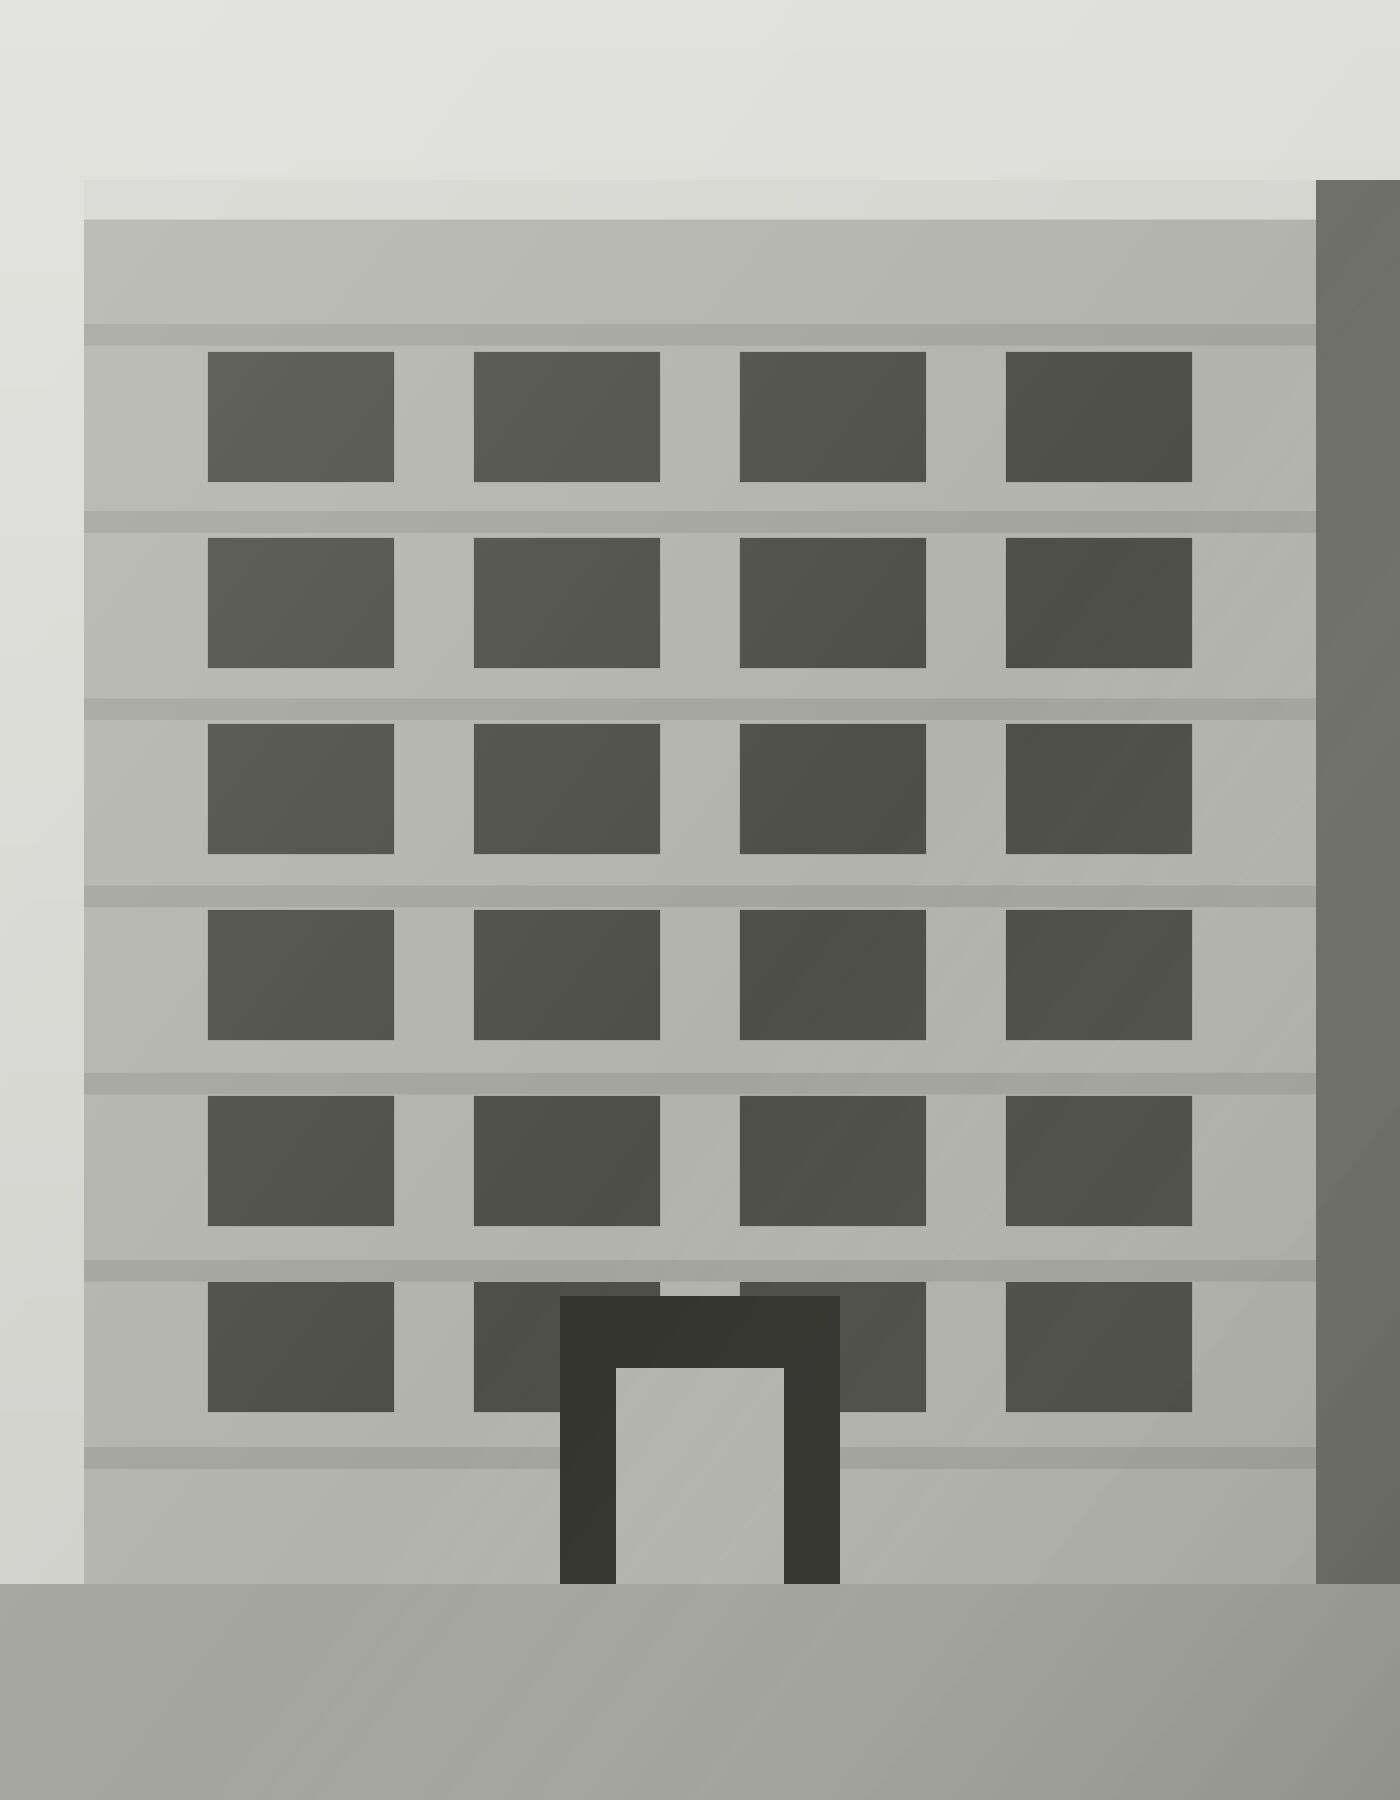
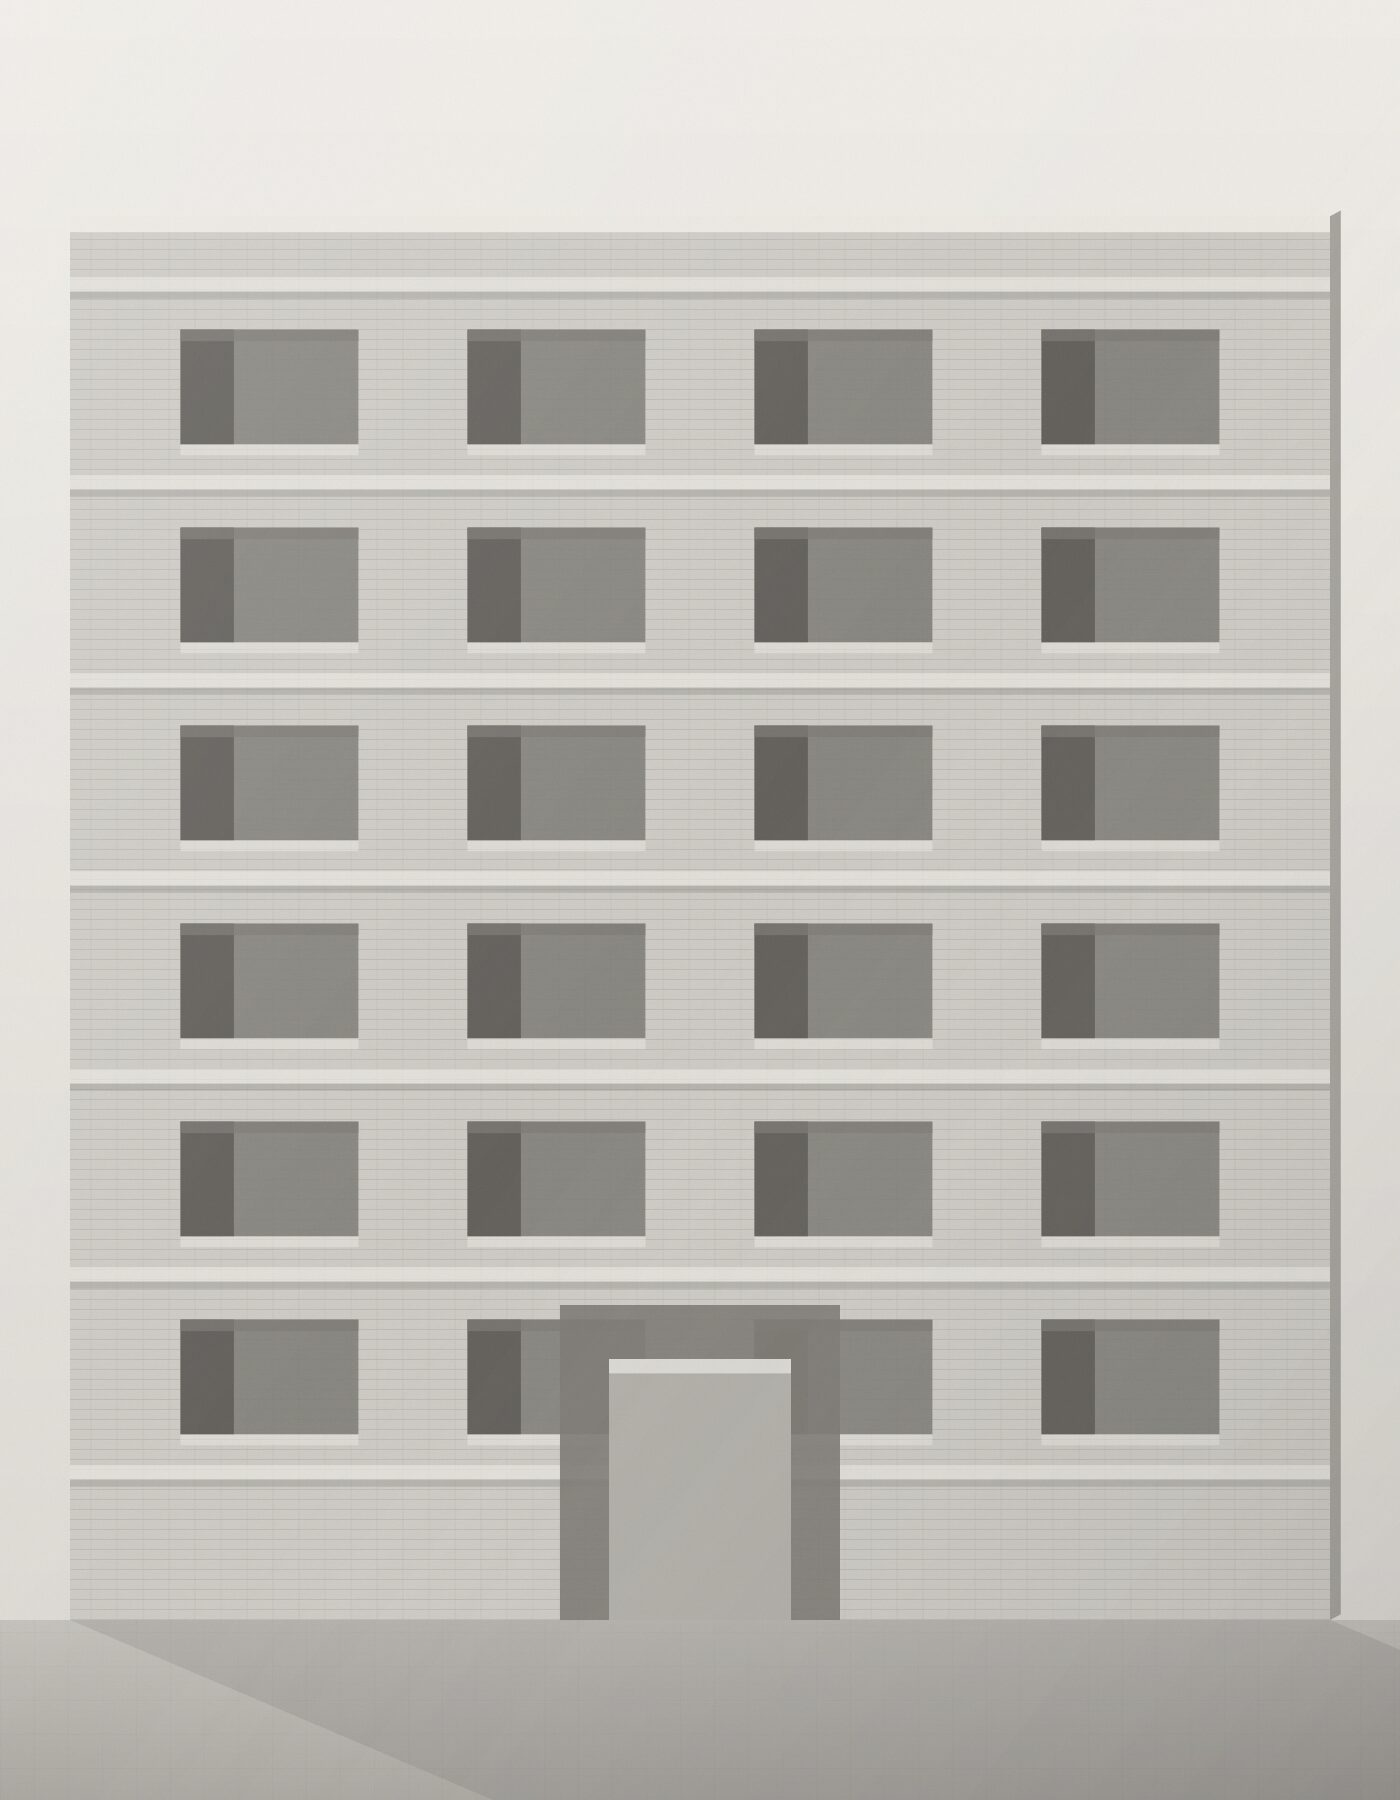
Redraw the placeholder set with light, depth and material
The first pass was flat mid-grey elevations: no cast shadows, no tonal range,
and the subject sat small in a large sky, which the masonry crop turned into
near-empty tiles.

Rebuilt on a shared system - one sun direction, one cabinet projection, one
palette, texture on the front faces, cast shadows on the ground - and composed
so each subject fills its frame. The masterplan is now a ring of volumes around
an empty centre, which is the yard, rather than three overlapping rows.

The images are staying in the submission, so the docs no longer instruct anyone
to replace them: keeping them is a stated choice, and DEFENSE.md §6 says why.

diff --git a/START-HERE.md b/START-HERE.md
@@ -91,13 +91,20 @@ was not wrong here.
 
 ---
 
-## 3. Put your real photographs in
+## 3. The photographs (optional)
 
-The site ships with nine generated placeholders, not photographs. Replace them
-before you deploy, otherwise you will have to deploy twice.
+The site ships with nine generated placeholders — tonal architectural studies,
+one per slot, drawn in the site's own palette. They are **not** photographs of
+built work, and they are deliberately graphic so nobody mistakes them for it.
 
-Open `client/public/projects/` in Finder. Overwrite these files with your own
-photographs, **keeping the exact same file names**:
+Keeping them is a legitimate choice, and it is what this build does by default.
+If you keep them, say so when you present the project rather than letting it be
+noticed: `DEFENSE.md` §6 has the wording, and the short version is that inventing
+photo-real imagery and labelling it as specific real projects would misrepresent
+someone else's buildings.
+
+If you would rather use real photographs, open `client/public/projects/` in
+Finder and overwrite these files, **keeping the exact same file names**:
 
 | File name | Size | Shape | What it is |
 |---|---|---|---|
@@ -112,14 +119,13 @@ photographs, **keeping the exact same file names**:
 | `auth-facade.jpg` | 1400×1800 | tall | panel beside the sign-in form |
 
 **Worked if** you refresh http://localhost:5173 with Cmd+Shift+R and see your
-photos instead of the grey graphics.
+photographs in the grid instead of the drawn ones.
 
 Tiles are cropped to fit, so the shape matters more than the pixel count. A photo
 much smaller than 1000px wide will look soft on a large screen.
 
-If you do not have the photos yet, skip this for now — the placeholders are
-deliberately obvious, so nobody will mistake them for your work. Just do not
-forget before you submit.
+You can do this at any point, before or after deploying — but if you do it after,
+commit and push so Vercel rebuilds with the new images.
 
 ---
 
@@ -292,7 +298,8 @@ character, or you forgot to redeploy the API after setting it.
 
 ## 10. Before you submit
 
-- [ ] Real photographs in place, no grey placeholders left
+- [ ] Photographs: either real ones in place, or you can say out loud that the
+      nine drawn studies are placeholders and why (`DEFENSE.md` §6)
 - [ ] Both URLs open in a private window (so you are not signed in already)
 - [ ] Sign up, refresh, sign out, and try `/dashboard` signed out — on the live site
 - [ ] `npm run smoke` all green

diff --git a/DEFENSE.md b/DEFENSE.md
@@ -220,9 +220,11 @@ Say these before you are asked. Naming your own gaps reads as competence.
   against one account would get through. Account-level lockout is the next step.
 - **The tests cover the API, not the UI.** There is no browser test suite.
 - **Photographs are generated placeholders.** The nine files in
-  `client/public/projects/` are tonal massing studies, not photographs. Replace
-  each with a real image of the same file name before submission; the README
-  lists the names and dimensions.
+  `client/public/projects/` are tonal architectural studies drawn for the site,
+  not photographs of built work. That was a deliberate call: inventing realistic
+  imagery and labelling it as specific projects would misrepresent other people's
+  buildings. Say it in those terms. To swap in real photographs, overwrite the
+  files with the same names (sizes and names are listed in the README).
 - **No CI pipeline.** Tests are run locally with `npm test`.
 - **Accessibility is designed for, not audited.** Keyboard focus, labels, alt text
   and reduced motion are all handled, but there has been no screen-reader pass.
@@ -236,9 +238,13 @@ Run it in this order. It shows the whole system working.
 
 1. **Start both.** Terminal 1 `cd server && npm run dev:local`. Terminal 2
    `cd client && npm run dev`. Open http://localhost:5173.
-2. **Walk the landing page.** Point out the hero, the masonry grid, the desaturated
-   photographs resolving on hover, and the marquee. Resize the window to show the
-   grid stepping from three columns to two to one. Press the theme toggle.
+2. **Walk the landing page.** Point out the hero, the masonry grid, the marquee,
+   and the tile hover — each tile lifts and scales under the pointer. Resize the
+   window to show the grid stepping from three columns to two to one. Press the
+   theme toggle. (The grid is also built to sit monochrome and resolve into
+   colour on hover; with the drawn placeholders in place that half of the effect
+   is invisible because they are already monochrome. Worth saying, since it shows
+   you know what the CSS does.)
 3. **Open DevTools, Network tab.** Refresh. Show the document, the CSS, the JS.
    Point out `editorial.css` rules in the compiled stylesheet.
 4. **Attempt a bad signup.** Go to `/signup`, use password `abc`. Show the inline

diff --git a/README.md b/README.md
@@ -440,10 +440,16 @@ the hero, the statement band and the sign-in panel. They point into
 `client/public/projects/`, which Vite serves from the site root, so the same path
 works in development and in a build, and there is no import to keep in sync.
 
-The files committed there are **generated tonal placeholders, not photographs**.
-Replace each one with a real photograph of the same file name and nothing else
-changes: no code edit, no path to update. Keep the dimensions close to the
-originals so the masonry grid keeps its rhythm.
+The files committed there are **generated placeholders, not photographs** — a set
+of nine tonal architectural studies, one per slot, drawn in the site's palette so
+the grid still reads as a single composition.
+
+Replacing them is optional. If you keep them, say so plainly rather than leaving
+it to be noticed (see `DEFENSE.md` §6); a named placeholder reads as a decision,
+an unexplained one reads as an oversight. To replace any of them, overwrite the
+file with a real photograph of the same name and nothing else changes: no code
+edit, no path to update. Keep the dimensions close to the originals so the
+masonry grid keeps its rhythm.
 
 | File | Size | Used by |
 |---|---|---|
